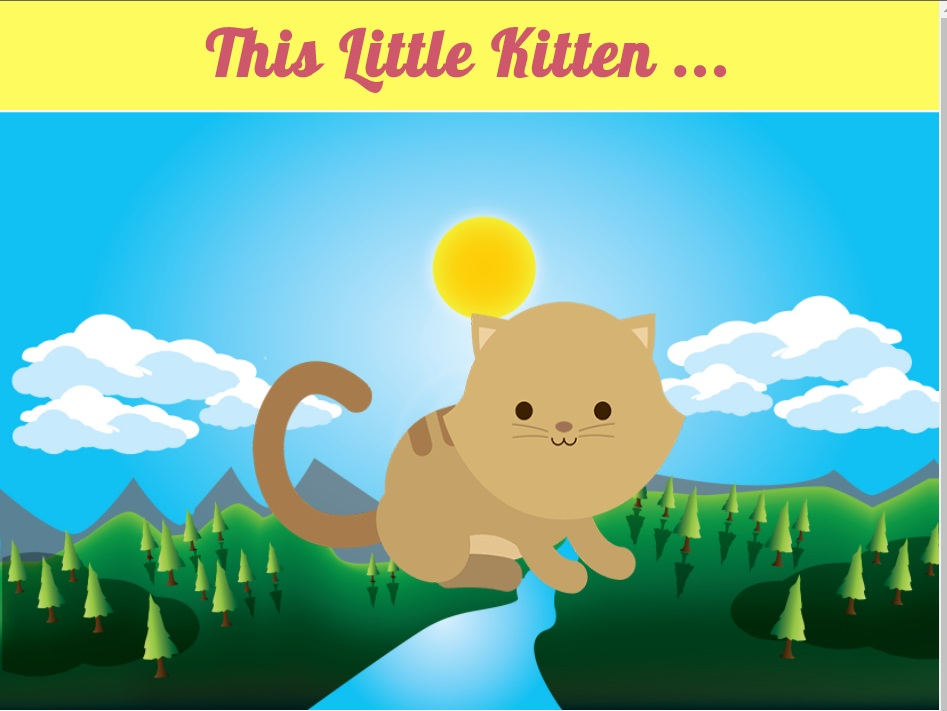
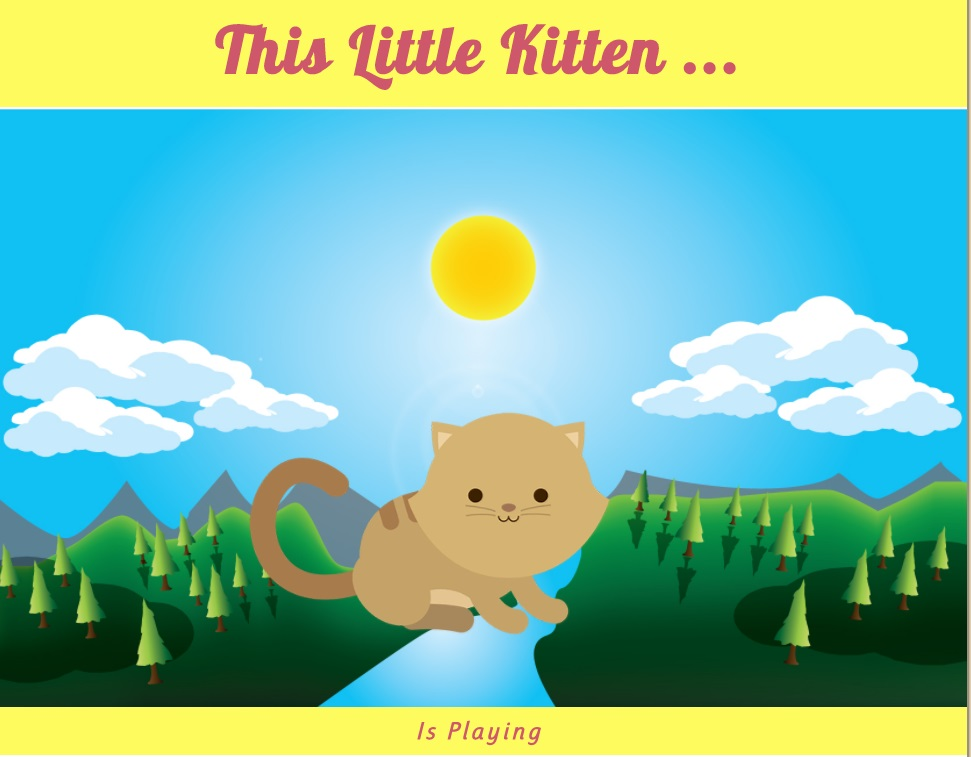
Subiendo readme y corrección de porcentajes en el responsive mobile

diff --git a/css/main.css b/css/main.css
@@ -43,7 +43,7 @@ header {
 }
 
 footer h2 {
-    font-family: sans-serif;
+    font-family: 'Ruluko', sans-serif;
     font-style: italic;
 }
 
@@ -59,7 +59,7 @@ footer h2 {
     }
 
     .kitten {
-        margin-top: 15%;
+        margin-top: 25%;
         margin-left: 25%;
         background-image: url("../assets/images/kitten-medium.png");
         background-size: 100% 60%;
@@ -83,11 +83,12 @@ footer h2 {
     }
 
     .kitten {
-        margin-top: 35%;
-        width: 60%; 
+        margin-top: inherit;
+        width: 60%;
+        height: 400px; 
         margin-left: 20%;
         background-image: url("../assets/images/kitten-small.png");
-        background-size: 100% 80%;
+        background-size: 100% 70%;
     }
 
 }

diff --git a/index.html b/index.html
@@ -4,7 +4,7 @@
     <meta charset="UTF-8">
     <meta name="viewport" content="width=device-width, initial-scale=1.0">
     <meta http-equiv="X-UA-Compatible" content="ie=edge">
-    <link href="https://fonts.googleapis.com/css?family=Pattaya" rel="stylesheet">
+    <link href="https://fonts.googleapis.com/css?family=Pattaya|Ruluko" rel="stylesheet">
     <link rel="stylesheet" href="css/grid.css">
     <link rel="stylesheet" href="css/main.css">
     <title>Kitten</title>
